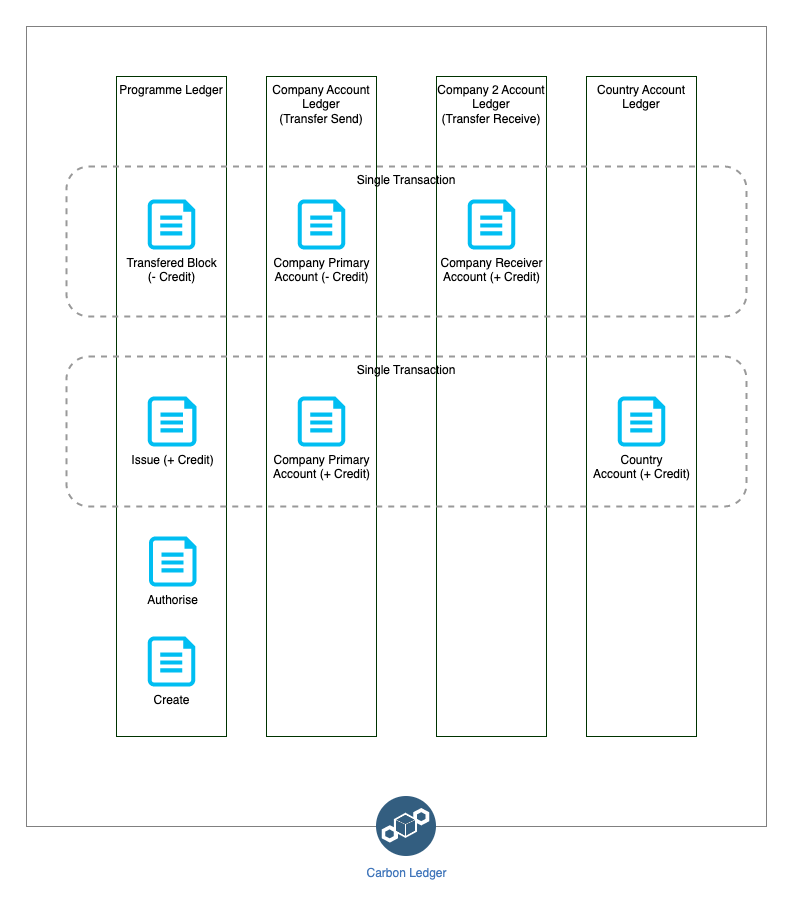
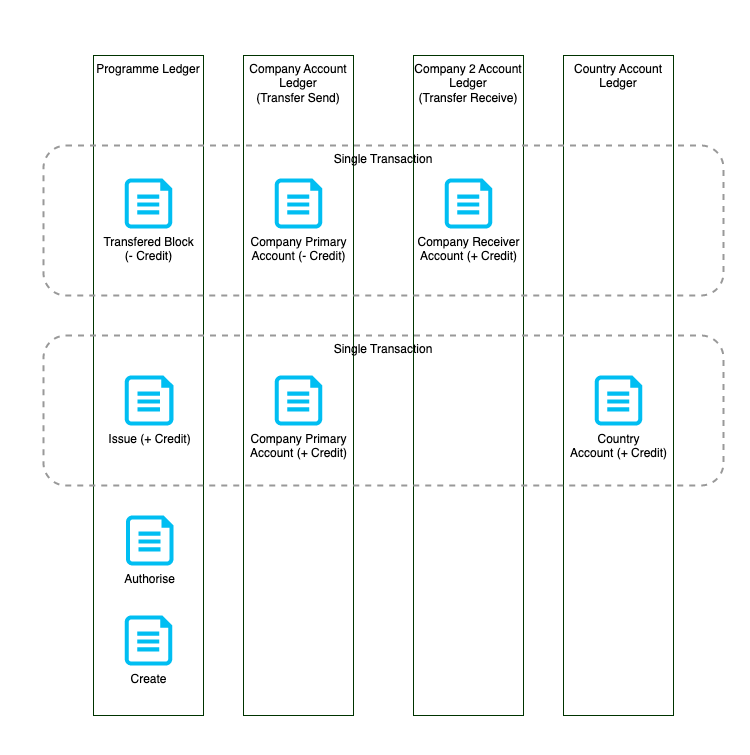
Update the ledger image

diff --git a/README.md b/README.md
@@ -109,7 +109,7 @@ Below diagram demonstrate the the ledger behavior on programme create, authorise
 
 ### **Authentication**
 - JWT Authentication - All endpoints based on role permissions.
-- API Key Authentication - For MRV User to programme creation.
+- API Key Authentication - MRV System connectivity.
 
 <a name="structure"></a>
 ## Project Structure